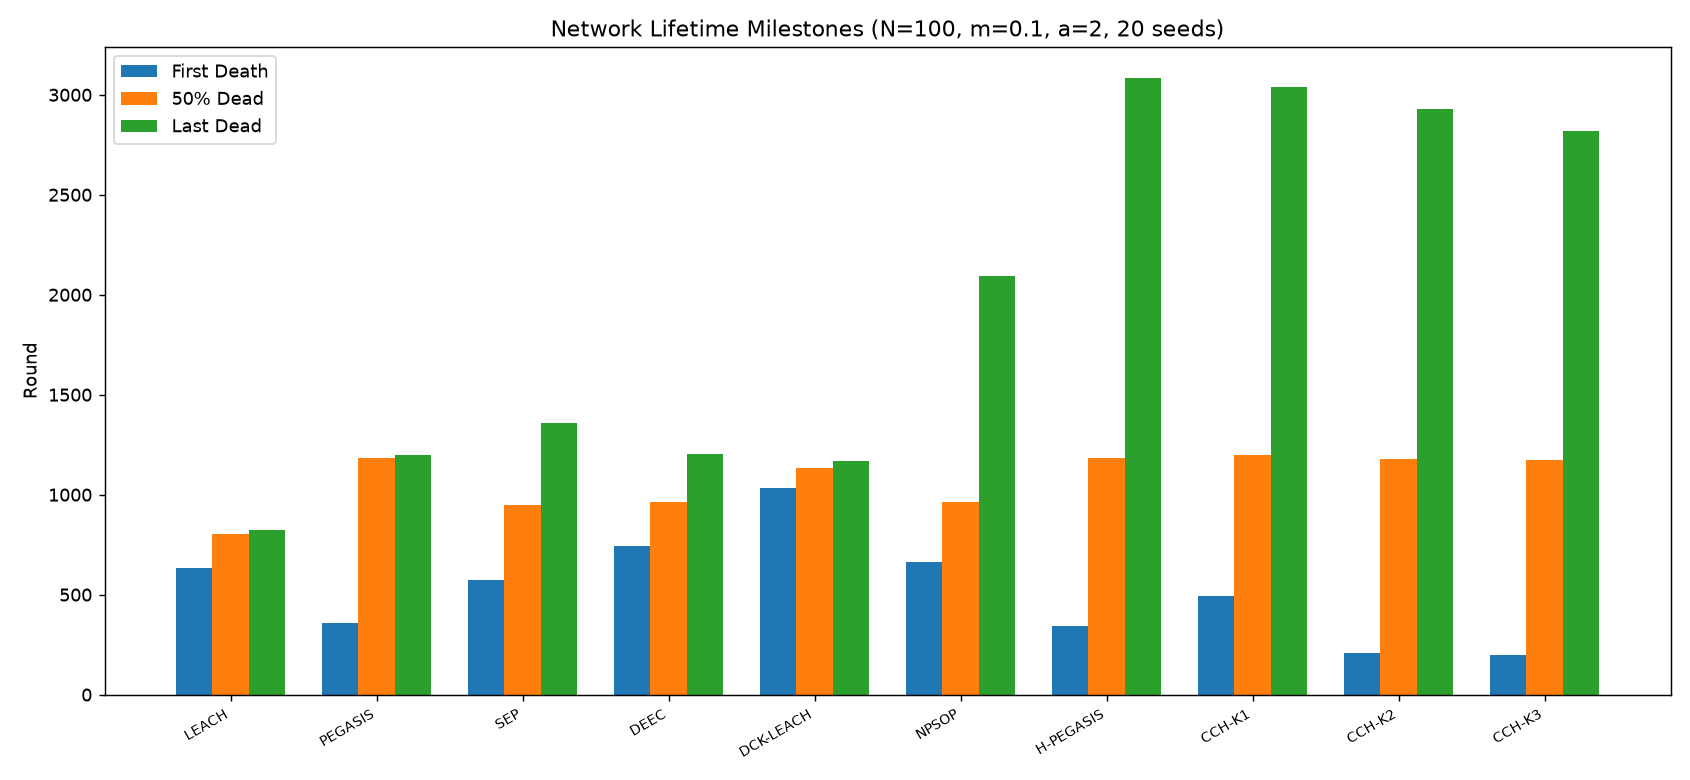
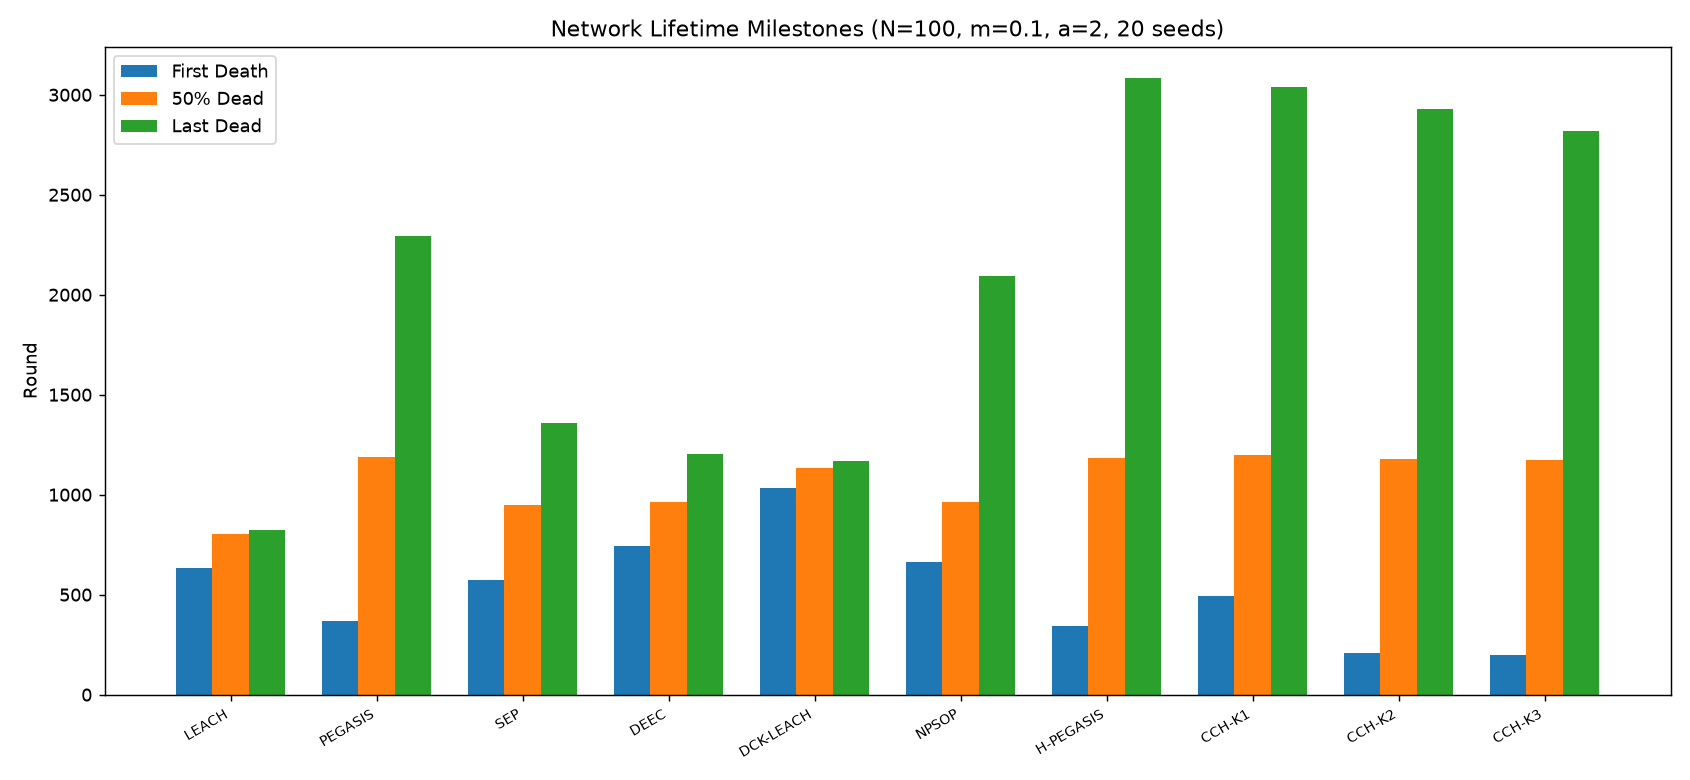
Align dashboard figures with paper's heterogeneous benchmark
- PEGASIS now run with m=0.1, a_mult=2.0 (heterogeneous) in gen_dashboards.py,
  matching eval_canonical.json and the paper's $9.1 table. PEGASIS now shows
  2291 rounds / 77 hops (was 1200/93 homogeneous), so CCH-K3's 1.33x PEGASIS
  claim is visible in the figure, not just the text.
- Delay/PDR metric now uses the SAME definition as canonical_eval.py (mean over
  first 1500 rounds, PDR capped at 1.0). CCH-K3 delay = 25 hops (paper 24.7),
  PEGASIS = 77 (paper 77.3) -- figures now match the paper table exactly.
- Regenerated comparison.png, dashboard.png, dashboard3.png, death_timeline.png.

Changed region(s): [[0.2154, 0.3077, 0.2769, 0.5846]]

diff --git a/gen_dashboards.py b/gen_dashboards.py
@@ -33,7 +33,7 @@ M, A, N, MAXR, SEEDS = 0.1, 2.0, 100, 6000, [1000 + i * 7 for i in range(20)]
 
 PROTOCOLS = {
     'LEACH': (LEACH, {}),
-    'PEGASIS': (PEGASIS, {}),
+    'PEGASIS': (PEGASIS, dict(m=M, a_mult=A)),
     'SEP': (SEP, dict(m=M, a_mult=A)),
     'DEEC': (DEEC, dict(m=M, a_mult=A)),
     'DCK-LEACH': (DualHead, dict(m=M, a_mult=A, K=5)),
@@ -64,11 +64,12 @@ def metrics(hists):
         lasts.append(last)
         fnds.append(fnd)
         hnds.append(hnd)
-        # PDR / delay are meaningful only while the network is alive; the final
-        # round has alive=0 and records ~0, so average over alive rounds.
-        alive = [r for r in h if r[1] > 0]
-        pdrs.append(np.mean([r[3] for r in alive]) if alive else 0.0)
-        delays.append(np.mean([r[4] for r in alive]) if alive else 0.0)
+        # PDR / delay use the SAME definition as canonical_eval.py (mean over the
+        # first 1500 rounds, PDR capped at 1.0) so the figures match the paper
+        # table and eval_canonical.json exactly.
+        cap = min(len(h), 1500)
+        pdrs.append(np.mean([min(1.0, h[r][3]) for r in range(cap)]))
+        delays.append(np.mean([h[r][4] for r in range(cap)]))
     energy = np.mean([np.sum([r[2] for r in h]) for h in hists])
     return {
         'LAST': np.mean(lasts), 'FND': np.mean(fnds), 'HND': np.mean(hnds),
